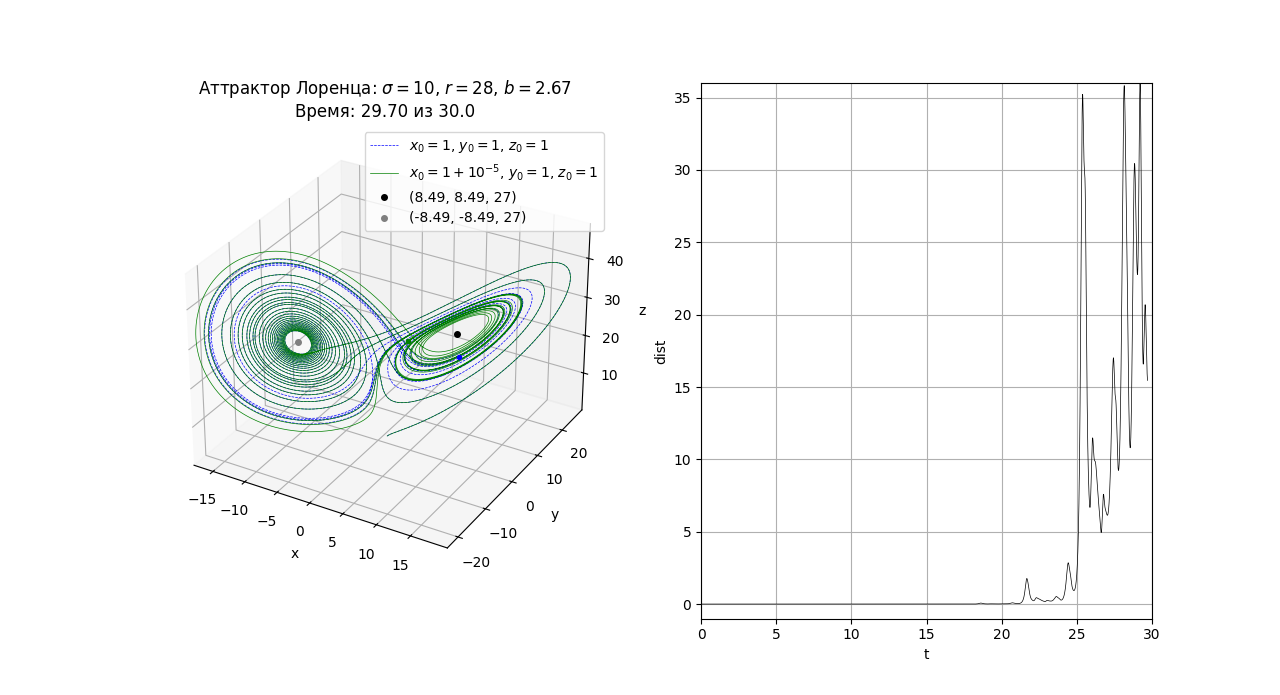
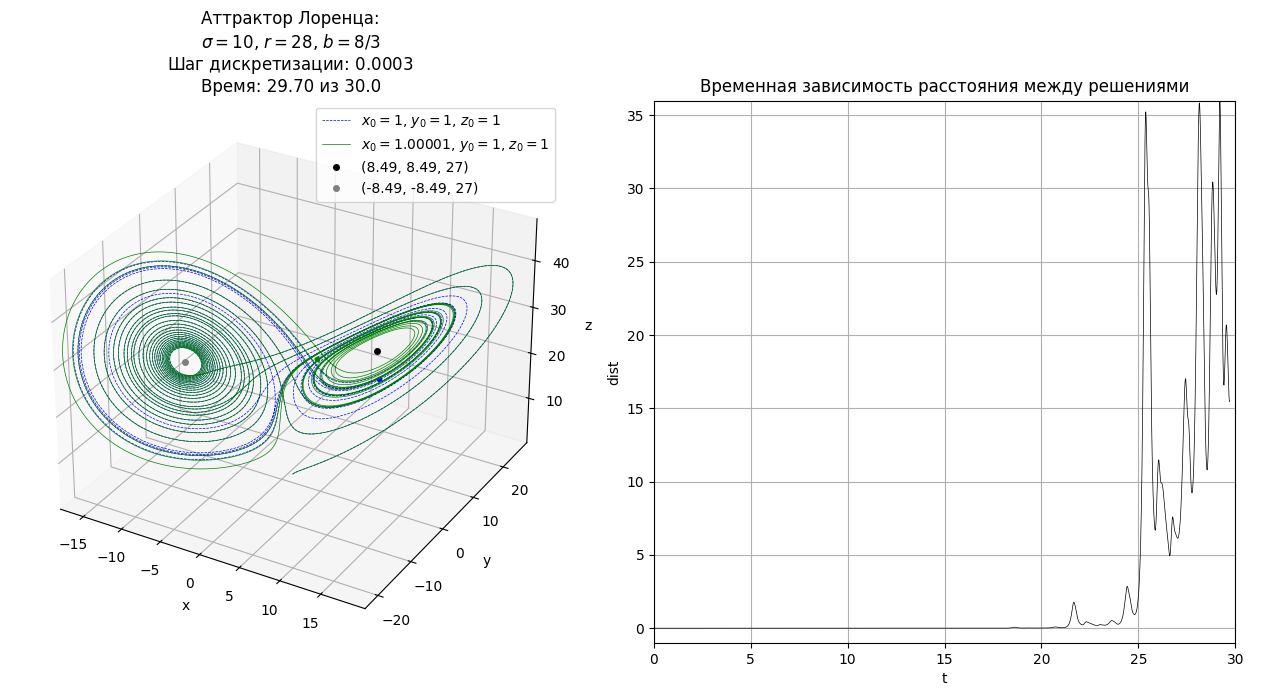
Добавил картинки, код стале еще более читаемым + сделал его однотипным во всех файлах

diff --git a/Аттрактор_Лоренца_2D_XZ.py b/Аттрактор_Лоренца_2D_XZ.py
@@ -61,100 +61,77 @@ def solve(sigma, r, b, x0, y0, z0, number, T):
 
     return t, x, y, z
 
-#Решения с разными начальными условиями 
+#Решения с разными начальными условиями
 t, x1, y1, z1 = solve(sigma, r, b, x_01, y_01, z_01, number, T)
 t, x2, y2, z2 = solve(sigma, r, b, x_02, y_02, z_02, number, T)
 
-#Расстояние между решениями
-dist = np.sqrt((x1-x2) ** 2 + (y1-y2) ** 2 + (z1 - z2) ** 2)
-
 #Создаем область для отрисовки графиков
 fig = plt.figure(figsize=(10, 8))
-ax1 = fig.add_subplot(121, projection='3d')
-ax2 = fig.add_subplot(122)
+ax = fig.add_subplot()
 
-#Обзываем оси для фазовой кривой в 3D 
-ax1.set_xlabel('x')
-ax1.set_ylabel('y')
-ax1.set_zlabel('z')
+#Обзываем оси для фазовой кривой в 2D 
+ax.set_xlabel('x')
+ax.set_ylabel('z')
 
-#Обзываем оси для временной зависимости расстояния между решениями
-ax2.set_xlabel('t')
-ax2.set_ylabel('dist')
+#Устанавливаем границы для фазовых кривых
+ax.set_xlim([np.min(x1), np.max(x1)])
+ax.set_ylim([np.min(z1), np.max(z1)])
 
-#Устанавливаем границы для графиков
-ax1.set_xlim([np.min(x1), np.max(x1)])
-ax1.set_ylim([np.min(y1), np.max(y1)])
-ax1.set_zlim([np.min(z1), np.max(z1)])
-
-ax2.set_xlim([0, T])
-ax2.set_ylim([-1, np.max(dist)])
-
-animated_line_1, = ax1.plot([], [], [], linewidth=0.5, linestyle='--', 
+animated_line_1, = ax.plot([], [], linewidth=0.5, linestyle='--', 
                            color='blue', 
                            label = (rf'$x_0 = {x_01}$'
-                                    rf'$\text{{, }} y_0 = {y_01}$'
                                     rf'$\text{{, }} z_0 = {z_01}$'))
-point_1, = ax1.plot([], [], [], 'bo', markersize=3)
+point_1, = ax.plot([], [], 'bo', markersize=3)
 
-animated_line_2, = ax1.plot([], [], [], linewidth=0.5, linestyle='-', 
+animated_line_2, = ax.plot([], [], linewidth=0.5, linestyle='-', 
                            color='green', 
                            label = (rf'$x_0 = {x_02}$'
-                                    rf'$\text{{, }} y_0 = {y_02}$'
                                     rf'$\text{{, }} z_0 = {z_02}$'))
-point_2, = ax1.plot([], [], [], 'go', markersize=3)
-
-animated_line, = ax2.plot([], [], linewidth=0.5, linestyle='-', color='black')
+point_2, = ax.plot([], [], 'go', markersize=3)
 
 #Точки равновесия
-x_pos_1 = round(np.sqrt(b * (r - 1)), 2)
+x_pos_1 = round(np.sqrt(b * (r - 1)), 5)
 y_pos_1 = x_pos_1
 z_pos_1 = r - 1
 
-x_pos_2 = -round(np.sqrt(b * (r - 1)), 2)
+x_pos_2 = -round(np.sqrt(b * (r - 1)), 5)
 y_pos_2 = x_pos_2
 z_pos_2 = r - 1
 
-equilibrium_positiona_1 = ax1.plot([x_pos_1], [y_pos_1], [z_pos_1], 'o', 
+equilibrium_positiona_1 = ax.plot([x_pos_1], [z_pos_1], 'o', 
                                   color = 'black', markersize=4, 
-                                  label = f'{(x_pos_1, y_pos_1, z_pos_1)}')
+                                  label = f'{(x_pos_1, z_pos_1)}')
 
-equilibrium_positiona_2 = ax1.plot([x_pos_2], [y_pos_2], [z_pos_2], 'o', 
+equilibrium_positiona_2 = ax.plot([x_pos_2], [z_pos_2], 'o', 
                                   color = 'gray', markersize=4, 
-                                  label = f'{(x_pos_2, y_pos_2, z_pos_2)}')
+                                  label = f'{(x_pos_2,  z_pos_2)}')
 
 def update(frame):
-    animated_line_1.set_data(x1[:frame], y1[:frame])
-    animated_line_1.set_3d_properties(z1[:frame])
-    point_1.set_data([x1[frame]], [y1[frame]])
-    point_1.set_3d_properties([z1[frame]])
+    animated_line_1.set_data(x1[:frame], z1[:frame])
+    animated_line_2.set_data(x2[:frame], z2[:frame])
+    
+    point_1.set_data([x1[frame]], [z1[frame]])
+    point_2.set_data([x2[frame]], [z2[frame]])
 
-    animated_line_2.set_data(x2[:frame], y2[:frame])
-    animated_line_2.set_3d_properties(z2[:frame])
-    point_2.set_data([x2[frame]], [y2[frame]])
-    point_2.set_3d_properties([z2[frame]])
-
-    animated_line.set_data(t[:frame], dist[:frame])
-    ax1.set_title(f'Аттрактор Лоренца:\n'
+    ax.set_title(f'Аттрактор Лоренца:\n'
                 f'$\sigma = 10 \\text{{, }}$'
                 f'$r = 28 \\text{{, }}$'
                 f'$b = 8/3$\n'
                 f'Шаг дискретизации: ${dt}$\n'
                 f'Время: {t[frame]:.2f} из {t[-1]:.1f}')
-    return animated_line_1, point_1, animated_line_2, point_2, animated_line
+    return animated_line_1, point_1, animated_line_2, point_2
 
 animation = FuncAnimation(
     fig=fig, 
     func=update, 
-    frames=range(0, number, 1000), 
-    interval=20,  # Интервал между кадрами в мс
-    blit=False,   # blit=True может вызвать проблемы в 3D, оставляем False
-    repeat=False   # Зациклить анимацию
+    frames=range(0, number, 500), 
+    interval=20,
+    blit=False,
+    repeat=False # Зациклить анимацию
 )
 
 #animation.save('lorenz_attractor.gif', writer='pillow', fps=30)  # Для GIF
 #animation.save('lorenz_attractor.mp4', writer='ffmpeg', fps=30)  # Для MP4
-ax1.legend()
-ax2.set_title('Временная зависимость расстояния между решениями')
-ax2.grid()
+plt.legend()
+plt.grid()
 plt.show()

diff --git a/Аттрактор_Лоренца.py b/Аттрактор_Лоренца.py
@@ -25,7 +25,7 @@ y_0 = 1
 z_0 = 1
 
 #Число точек
-number = 40000
+number = 100000
 
 #Длительность
 T = 30
@@ -146,14 +146,18 @@ animation = FuncAnimation(
 
 #Отрисовываем фурье-спектры
 ax[1].plot(frequencies_x, amplitude_spectrum_x, 'b-', 
-           alpha=0.7, label='Преобразование Фурье от x(t)', linewidth=0.5)
+           alpha=0.7, label='Преобразование Фурье от x(t)', linewidth=1)
 ax[1].plot(frequencies_y, amplitude_spectrum_y, 'g-', 
            alpha=0.7, label='Преобразование Фурье от y(t)', linewidth=0.5)
 ax[1].plot(frequencies_z, amplitude_spectrum_z, 'r-', 
-           alpha=0.7, label='Преобразование Фурье от z(t)', linewidth=0.5)
+           alpha=0.7, label='Преобразование Фурье от z(t)', linewidth=0.25)
 
-#Лог. масштаб по оси Y для фурье-спектра
+#Лог. масштаб по осям Y и X  для фурье-спектра
 ax[1].set_yscale('log')
+ax[1].set_xscale('log')
+
+#Обзываем график фурье-спектров
+ax[1].set_title('Фурье-спектр временных зависимостей координат')
 
 #Обзываем оси для фурье-спектра
 ax[1].set_xlabel('$\omega$')
